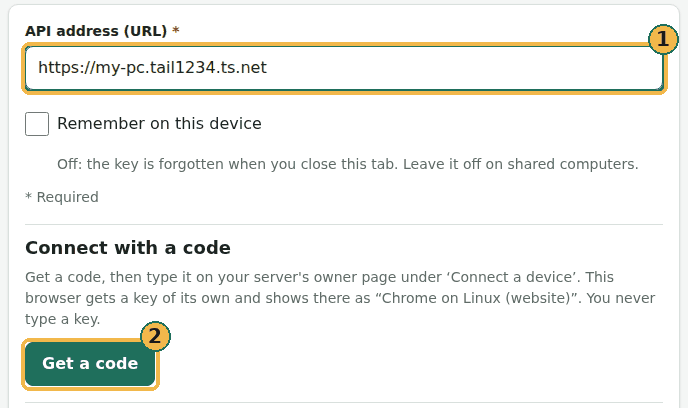
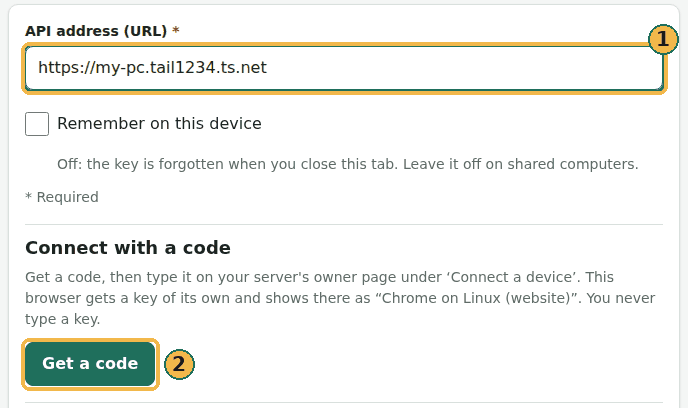
User guide pictures for Your data and Back up to Google Drive; one tool makes all the website pictures
Import a backup card, the preview with its merge choice and Import button, and the Google Drive card (Connect button), numbered,
7-19 KB each, alt text in en, hi, ta, te. tools/guide-shots/shots.cjs now makes all four website pictures (the first is unchanged
except that button badges sit beside the button); annotate.py numbers and shrinks them.

Claude-Session: https://claude.ai/code/session_01661aQxHCcyQpCCqFJLTZpH

Changed region(s): [[0.1831, 0.7647, 0.3052, 0.9412]]

diff --git a/tools/guide-shots/annotate.py b/tools/guide-shots/annotate.py
@@ -15,12 +15,14 @@
 #
 # SPDX-License-Identifier: AGPL-3.0-only
 
-"""Numbers the field (1) and the button (2) on tools/guide-shots/out/raw.png and shrinks it to a small palette PNG.
+"""Numbers the places shots.cjs recorded on each raw picture and shrinks it to a small palette PNG.
 
-    python3 tools/guide-shots/annotate.py [outDir] [target.png]
+    python3 tools/guide-shots/annotate.py [outDir] [imagesDir]
 
-Needs Pillow (a development machine's Python usually has it); the picture goes to guide/docs/images/web-connect-url.png.
+Needs Pillow; the pictures go to guide/docs/images/<name>.png. A number's badge sits on the top right corner of its
+box, clear of the label text; a box with room to its right (a button) gets it beside it.
 """
+import glob
 import json
 import os
 import sys
@@ -29,25 +31,24 @@ from PIL import Image, ImageDraw, ImageFont
 
 here = os.path.dirname(os.path.abspath(__file__))
 out = sys.argv[1] if len(sys.argv) > 1 else os.path.join(here, 'out')
-target = sys.argv[2] if len(sys.argv) > 2 else os.path.join(here, '..', '..', 'guide', 'docs', 'images', 'web-connect-url.png')
-ox, oy = 296, 196  # the clip's origin in the page, as in web-connect-url.cjs
-boxes = json.load(open(os.path.join(out, 'boxes.json')))
-im = Image.open(os.path.join(out, 'raw.png')).convert('RGB')
-draw = ImageDraw.Draw(im)
+images = sys.argv[2] if len(sys.argv) > 2 else os.path.join(here, '..', '..', 'guide', 'docs', 'images')
 gold, dark = (242, 184, 75), (31, 111, 92)
 font = ImageFont.truetype('/usr/share/fonts/truetype/dejavu/DejaVuSans-Bold.ttf', 20)
 
-
-def mark(box, number):
-    x0, y0 = box['x'] - ox - 4, box['y'] - oy - 4
-    x1, y1 = x0 + box['width'] + 8, y0 + box['height'] + 8
-    draw.rounded_rectangle([x0, y0, x1, y1], radius=8, outline=gold, width=4)
-    cx, cy = x1 - 4, y0 - 2  # the badge sits on the top right corner, clear of the label text
-    draw.ellipse([cx - 15, cy - 15, cx + 15, cy + 15], fill=gold, outline=dark, width=2)
-    draw.text((cx, cy), str(number), fill=(26, 26, 26), font=font, anchor='mm')
-
-
-mark(boxes['url'], 1)
-mark(boxes['btn'], 2)
-im.quantize(colors=64, method=Image.Quantize.MEDIANCUT).convert('P').save(target, optimize=True)
-print(f'{target}: {os.path.getsize(target)} bytes')
+for spec in sorted(glob.glob(os.path.join(out, '*.json'))):
+    name = os.path.basename(spec)[: -len('.json')]
+    data = json.load(open(spec))
+    ox, oy = data['clip']['x'], data['clip']['y']
+    im = Image.open(os.path.join(out, f'{name}.raw.png')).convert('RGB')
+    draw = ImageDraw.Draw(im)
+    for number, box in enumerate(data['marks'], start=1):
+        x0, y0 = box['x'] - ox - 4, box['y'] - oy - 4
+        x1, y1 = x0 + box['width'] + 8, y0 + box['height'] + 8
+        draw.rounded_rectangle([x0, y0, x1, y1], radius=8, outline=gold, width=4)
+        # The badge sits just right of a box that has room beside it (a button), else on its top right corner (a wide field).
+        cx, cy = (x1 + 20, (y0 + y1) / 2) if x1 + 40 < im.width else (x1 - 4, y0 - 2)
+        draw.ellipse([cx - 15, cy - 15, cx + 15, cy + 15], fill=gold, outline=dark, width=2)
+        draw.text((cx, cy), str(number), fill=(26, 26, 26), font=font, anchor='mm')
+    target = os.path.join(images, f'{name}.png')
+    im.quantize(colors=64, method=Image.Quantize.MEDIANCUT).convert('P').save(target, optimize=True)
+    print(f'{name}: {os.path.getsize(target)} bytes')

diff --git a/guide/i18n/ta/your-data.md b/guide/i18n/ta/your-data.md
@@ -62,6 +62,8 @@ Android அல்லது iPhone-இல், **அமைப்புகள்** 
 அல்லது யாராவது பகிர்ந்த புதுப்பிப்பிலிருந்து வீடுகள், வருகைகள், படங்களை மீண்டும் கொண்டுவரும். ஒவ்வொரு செயலியும் வேறு எந்தச்
 செயலி உருவாக்கிய காப்புப்பிரதியையும் படிக்கும்.
 
+![வலைத்தளத்தில் உங்கள் தரவு, Import a backup அட்டை: Choose a backup file பொத்தான் (1)](images/web-import-choose.png)
+
 1. இணையதளத்தில் **உங்கள் தரவு** திறந்து **காப்புப்பிரதியை இறக்குமதி செய்** கண்டுபிடிக்கவும். Android அல்லது iPhone-இல், **அமைப்புகள்** திறந்து, பிறகு **காப்புப்பிரதியை இறக்குமதி செய்**.
 2. **காப்புப்பிரதிக் கோப்பைத் தேர்ந்தெடு** என்பதைத் தேர்ந்தெடுக்கவும். (தொலைபேசியில் WhatsApp அல்லது Files போன்ற வேறொரு செயலியிலிருந்து கோப்பைத் திறந்து Doorprints-ஐயும் தேர்ந்தெடுக்கலாம்.) கணினியில் இணையதளத்தை நிறுவியிருந்தால் (Chrome அல்லது Edge), Doorprints காப்புப்பிரதியை (`.zip`) இருமுறை சொடுக்கியும் அதை **காப்புப்பிரதியை இறக்குமதி செய்** என்பதில் திறக்கலாம்.
 3. Doorprints கோப்பைச் சரிபார்த்து **இதனால் என்ன மாறும்** என்று காட்டும். இன்னும் எதுவும் மாறாது.
@@ -72,6 +74,8 @@ Android அல்லது iPhone-இல், **அமைப்புகள்** 
       நீக்கியிருந்தால், **… நீக்கப்பட்ட வீடுகளையும் திரும்பக் கொண்டு வா** அவற்றைத் திரும்பக் கொண்டுவரும்.
     - **அனைத்தையும் புதிய நகல்களாகச் சேர்:** இந்தத் தொலைபேசியில் எதுவும் மாறாது. உங்களிடம் ஏற்கெனவே உள்ள வீடுகள் இரண்டு முறை தெரியும்.
 5. **இறக்குமதி செய்** என்பதைத் தட்டவும்.
+
+![கோப்பைத் தேர்ந்த பிறகான முன்னோட்டம்: Merge with what I have, Add everything as new copies இடையே தேர்வு (1), எண்ணிக்கையுடன் What this would change, மற்றும் Import பொத்தான் (2). இங்கே உள்ள கோப்பு ஒரு மாதிரி காப்புப்பிரதி](images/web-import-preview.png)
 
 முன்னோட்டம் புதிய, புதுப்பிக்கப்பட்ட தரகர்களையும் எண்ணும். கோப்பில் ஒரு வீட்டின் தளம் -5 முதல் 200 வரம்பிற்கு வெளியே
 இருந்தால், முன்னோட்டம் அதைச் சொல்லும்: அந்த வீடு தளம் காலியாக விடப்பட்டு வரும்.

diff --git a/docs/10-sprint-log.md b/docs/10-sprint-log.md
@@ -3,7 +3,7 @@
 | Field | Value |
 |---|---|
 | Document | Agile sprint log (goals, stories, sign-offs, CI results, retrospectives) |
-| Version | 0.142 |
+| Version | 0.143 |
 | Date | 2026-10-06 |
 | Author | Claude (Cowork), Docs team |
 | Status | Draft (Sprint 3.5 KMP foundation delivered and green on `19006bc`; Sprint 4a in progress, section 11; web host **Firebase Hosting at `https://doorprints.web.app`** since 2026-09-23, owner setup done, first deploy pending, §11.6; Sprint 4b scope set by the product owner with the 2026-09-22 additions and the 2026-09-23 import definition, section 12; **whole-app UX audit approved on both clients**, the go-ahead for the first deploy, §11.7; owner's security guard rule, release security gate, process improvements and **first-release Definition of Done** (hi/ta/te ship *under review*) §12.5; licence change to AGPL-3.0-only approved, done 2026-09-29, §12.6; pre-deploy close-out, what is left, backlog tickets and rule candidates, §12.7; **owner issue P0 of 2026-09-24, India's boundaries on the map, merged (PRs #13 and #14) and live**, §12.8; **story S4b-BR-1, the app icon's footprints (option C), PR #15, merged (`76449fb`)**, §12.9; **owner request of 2026-09-24, the doubled lines and the Assam-Arunachal Pradesh state line, fixed on branch `fix/india-boundary-lines`, PR #16, merged (`4100f7a`)**, §12.10; **owner request of 2026-09-24, the Compose Multiplatform track (ADR-23), CMP-1 done in `be86f50`**, §13; **owner request of 2026-09-24, testing the APK and the live web UI, CMP-0 in `afe4064`**, §13.3; **the Sprint 4b/4c finishing batch (slice 5 to Wave E) built on stacked branches, not merged, 2026-10-01**, §13.29..§13.40) |
@@ -12,6 +12,7 @@
 
 | Version | Date | Author | Change |
 |---|---|---|---|
+| 0.143 | 2026-10-06 | Claude | **User guide, pictures** (continued, §17): *Your data* has the Import a backup card (1) and the preview with its merge choice and **Import** (1, 2); *Back up to Google Drive* has the card with **Connect to Google Drive** (1) (`guide/docs/images/web-import-choose.png`, `web-import-preview.png`, `web-drive-connect.png`, 7-19 KB, English; alt texts in all four languages, hi/ta/te under review). `tools/guide-shots/shots.cjs` makes all four website pictures from the built site (the Drive card with a client id that is not real, so its Connect button shows, no sign-in is tried); `annotate.py` numbers and shrinks them. **A defect found taking them:** the disconnected Drive card said what the Your data page says (`data.intro`); it now explains the Drive backup (`driveConnect.intro`, en/hi/ta/te) with a test. Not pictured: the connected Drive states (a recovery key, backups, devices), which need a real sign-in; in the owner's real-account test (docs/15) they can be shot with the same tool. |
 | 0.142 | 2026-10-06 | Claude | **User guide, pictures** (owner request of 2026-09-29, §17): *Set up your own server*, step 9, now shows the website's Connect page with an example address typed in and the **Get a code** button, numbered 1 and 2 (`guide/docs/images/web-connect-url.png`, 12 KB, English; the alt text and the caption are in all four languages, hi/ta/te under review). Made by `tools/guide-shots/` (`web-connect-url.cjs` takes the clip from the built site on a local port, `annotate.py` numbers and shrinks it; the result is byte-identical when remade), so more pictures can be added the same way. The server's own owner page is not pictured: it is served by the backend and needs a running server. |
 | 0.141 | 2026-10-06 | Claude | **S4b-BL-55 done**: version match of MapLibre's worker and shared file (build and live), and the map says when its worker failed to load; TC-S-42, TC-S-43 corrected and TC-U-134 added in docs/06 v0.125. |
 | 0.140 | 2026-10-06 | Claude | **S4b-BL-54 done**: CI checks that MapLibre's worker files ship — `web.yml` `pwa-files` job and `check-live-headers.sh`. Extract check logic to `web/scripts/maplibre-worker-check.mjs` with tests in `web/src/app/data/maplibre-worker-check.spec.ts`. |

diff --git a/CHANGELOG.md b/CHANGELOG.md
@@ -115,6 +115,7 @@ licence change from MIT to `AGPL-3.0-only` with a trademark notice is approved a
 
 ### Added
 
+- **Guide pictures for Your data and Back up to Google Drive**: the Import a backup card, the preview with its merge choice, and the Google Drive card, numbered, with alt text in all four guide languages (hi/ta/te under review). `tools/guide-shots/` makes every website picture from the built site, no network.
 - **A picture for the server setup page of the user guide**: step 9 shows the website's Connect page with an example address typed in and the **Get a code** button numbered, in all four guide languages (alt text and caption translated; hi/ta/te under review). `tools/guide-shots/` makes it again from the built site, no network.
 - **The map says when its worker failed to load** (S4b-BL-55): a worker load failure while online shows "reload, or clear this site's data" instead of the offline message (en, hi, ta, te; hi/ta/te under review); the build and the post-deploy check also require MapLibre's worker and shared file to be the same version (S4b-BL-54: and to ship at all).
 - **Guards against tests that cannot fail** (2026-10-06): `tools/check-specs.mjs` fails a spec that imports no production code or uses none of what it imports; `tools/mutate.mjs` applies a ticket's listed one-line mutations (`tools/mutations/`) and fails when one survives or no test of the expected name fails. Both run in `tools/check.sh`'s web area, no new library ([docs/14](docs/14-lead-backlog-and-handoff.md) §7).
@@ -958,6 +959,7 @@ The finishing batch of 2026-10-01 (built on stacked branches, not yet merged or 
 
 ### Fixed
 
+- **The Google Drive card said what the Your data page says**: when not connected it showed "Everything you save stays in this browser..." instead of what the Drive backup is. It now explains the Drive backup (en, hi, ta, te; hi/ta/te under review), with a test (found taking the guide pictures).
 - **Passkey without a PRF output: message and troubleshooting (2026-10-05).** When a passkey does not return a PRF output (Windows Hello after a PIN on some Windows/browser builds), the card now says the passkey could not protect deletions and offers remedies (single backups still delete; update Windows and the browser; a security key or a phone/Mac passkey usually works). The setup records which step returned nothing (step name and flags only, never a value) and the card offers the details to copy for troubleshooting.
 - **Set up a passkey stayed on the button after a Windows Hello PIN.** The PIN ceremony succeeded, then the page required `prf.enabled` and never used the PRF output. Create now evaluates the PRF in that same prompt. The passkey is kept only when that output can seal deletions. If it is missing, the card says the passkey could not protect deletions. An empty or all-zero output, the salt, or the public client salt is not kept. An output from a different passkey already stored in the browser is not success, and an assertion whose user-verification flag is clear is not kept.
 - **Set up a passkey did nothing on a Windows computer after a Windows Hello PIN was created.** The request asked only for ES256, which Windows Hello refuses before it shows a prompt. It now asks for ES256 and then RS256, and for a discoverable passkey. Cancelling says the prompt was cancelled. If setup fails, the card says the passkey could not be set up. The button stays, unless this browser has no platform authenticator.

diff --git a/guide/i18n/hi/your-data.md b/guide/i18n/hi/your-data.md
@@ -54,6 +54,8 @@ iPhone पर भी आयात कर सकती है।
 **बैकअप आयात करें** **पूरा बैकअप (ZIP)** से, सर्वर की बैकअप फ़ाइल (`.json`, तस्वीरों के बिना) से, या किसी के साझा किए
 अपडेट से मकान, दौरे और तस्वीरें वापस लाता है। हर ऐप किसी भी दूसरे ऐप का बना बैकअप पढ़ सकता है।
 
+![वेबसाइट पर आपका डेटा, Import a backup कार्ड: Choose a backup file बटन (1)](images/web-import-choose.png)
+
 1. वेबसाइट पर **आपका डेटा** खोलें और **बैकअप आयात करें** ढूँढें। Android या iPhone पर **सेटिंग्स** खोलें, फिर **बैकअप आयात करें**।
 2. **बैकअप फ़ाइल चुनें** चुनें। (फ़ोन पर आप फ़ाइल को WhatsApp या Files जैसे किसी दूसरे ऐप से खोलकर Doorprints भी चुन सकते हैं।) अगर आपने वेबसाइट को कंप्यूटर पर इंस्टॉल किया है (Chrome या Edge), तो Doorprints बैकअप (`.zip`) पर डबल-क्लिक करके भी उसे **बैकअप आयात करें** में खोल सकते हैं।
 3. Doorprints फ़ाइल जाँचता है और **इससे क्या बदलेगा** दिखाता है। अभी कुछ नहीं बदलता।
@@ -64,6 +66,8 @@ iPhone पर भी आयात कर सकती है।
       **… हटाए गए मकान भी वापस लाएँ** उन्हें वापस ले आता है।
     - **सब कुछ नई कॉपियों के रूप में जोड़ें:** इस फ़ोन पर कुछ नहीं बदलता। जो मकान आपके पास पहले से हैं, वे दो बार दिखेंगे।
 5. **आयात करें** पर टैप करें।
+
+![फ़ाइल चुनने के बाद का पूर्वावलोकन: Merge with what I have और Add everything as new copies में से चुनाव (1), गिनतियों के साथ What this would change, और Import बटन (2)। यहाँ फ़ाइल एक नमूना बैकअप है](images/web-import-preview.png)
 
 पूर्वावलोकन नए और बदले ब्रोकर भी गिनता है। अगर फ़ाइल में किसी मकान की मंज़िल -5 से 200 के बाहर है, तो पूर्वावलोकन
 यह बताता है: वह मकान अपनी मंज़िल खाली छोड़कर आता है।

diff --git a/guide/docs/your-data.md b/guide/docs/your-data.md
@@ -52,6 +52,8 @@ changed it after you deleted it. She can also import your update on the website 
 **Import a backup** brings houses, visits and photos back from a **Full backup (ZIP)**, the server's backup file
 (`.json`, without photos) or an update someone shared with you. Every app can read a backup made by any other.
 
+![Your data on the website, the Import a backup card: the Choose a backup file button (1)](images/web-import-choose.png)
+
 1. On the website, open **Your data** and find **Import a backup**. On Android or iPhone, open **Settings**, then
    **Import a backup**.
 2. Choose **Choose a backup file**. (On a phone you can also open the file from another app, such as WhatsApp or
@@ -65,6 +67,8 @@ changed it after you deleted it. She can also import your update on the website 
       has, turn on **Also bring back … houses deleted on this phone** (or *in this browser*) to get them back.
     - **Add everything as new copies:** nothing on this phone is changed. Houses you already have will appear twice.
 5. Tap **Import**.
+
+![The preview after choosing a file: the choice between Merge with what I have and Add everything as new copies (1), What this would change with its counts, and the Import button (2). The file here is the sample backup](images/web-import-preview.png)
 
 The preview also counts the new and updated brokers. If a house's floor in the file is outside -5 to 200, the
 preview says so: that house comes in with its floor left blank.

diff --git a/guide/i18n/ta/google-drive.md b/guide/i18n/ta/google-drive.md
@@ -8,6 +8,8 @@ Android மற்றும் iPhone Drive பணி நிறுத்தப்
 
 ## இணைக்கவும் (இணையதளம்) {#connect-website}
 
+![வலைத்தளத்தில் உங்கள் தரவு, Back up to Google Drive அட்டை: Connect to Google Drive பொத்தான் (1)](images/web-drive-connect.png)
+
 1. **உங்கள் தரவு** திறக்கவும்.
 2. **Google Drive இல் பேக்கப் செய்யவும்** கீழ் **Google Drive இல் இணைக்கவும்** தேர்ந்தெடுத்து Google இல் உள்நுழையவும்.
 3. Doorprints **மீட்டெடுக்கும் விசையை ஒருமுறை** காட்டும். நகலெடுத்து பாதுகாப்பான இடத்தில் வைக்கவும். **நான் என் மீட்டெடுக்க விசையைப் பாதுகாப்பான இடத்தில் சேமிந்துவிட்டேன்** என்பதைத் தேர்ந்தெடுத்து தொடரவும். எச்சரிக்கைக்குப் பிறகு தவிர்க்கலாம்; விசை இல்லாமல் புதிய உலாவி பின்னர் இணைய முடியாது.

diff --git a/guide/i18n/te/google-drive.md b/guide/i18n/te/google-drive.md
@@ -8,6 +8,8 @@ Android మరియు iPhone Drive పని నిలిపివేయబడ
 
 ## కనెక్ట్ చేయండి (వెబ్సైట్) {#connect-website}
 
+![వెబ్సైట్లో మీ డేటా, Back up to Google Drive కార్డ్: Connect to Google Drive బటన్ (1)](images/web-drive-connect.png)
+
 1. **మీ డేటా** తెరవండి.
 2. **Google Drive కు బ్యాకప్** కింద **Google Drive కు కనెక్ట్ చేయండి** ఎంచుకుని Google తో సైన్ ఇన్ చేయండి.
 3. Doorprints **రికవరీ కీని ఒకసారి** చూపిస్తుంది. కాపీ చేసి సురక్షితంగా ఉంచండి. **నేను నా రికవరీ కీని సురక్షితమైన చోట సేవ్ చేశాను** టిక్ చేసి కొనసాగండి. హెచ్చరిక తర్వాత దాటవేయవచ్చు; కీ లేకుండా కొత్త బ్రౌజర్ తర్వాత చేరలేదు.

diff --git a/docs/README.md b/docs/README.md
@@ -3,7 +3,7 @@
 | Field | Value |
 |---|---|
 | Document | SSDLC document index |
-| Version | 0.103 |
+| Version | 0.104 |
 | Date | 2026-10-06 |
 | Author | Claude (Cowork) |
 | Status | Draft |
@@ -12,6 +12,7 @@
 
 | Version | Date | Author | Change |
 |---|---|---|---|
+| 0.104 | 2026-10-06 | Claude | User guide pictures for Your data and Google Drive, and the Drive card text fix: docs/10 v0.143. |
 | 0.103 | 2026-10-06 | Claude | User guide picture for the server setup page (S4b-BL-60 follow-up): docs/10 v0.142. |
 | 0.102 | 2026-10-06 | Claude | **S4b-BL-55 done**: docs/10 v0.141, docs/06 v0.125. |
 | 0.101 | 2026-10-06 | Claude | Guards against tests that cannot fail (`tools/check-specs.mjs`, `tools/mutate.mjs`): docs/14 v0.86. |

diff --git a/guide/docs/google-drive.md b/guide/docs/google-drive.md
@@ -10,6 +10,8 @@ Android and iPhone Drive work is paused. This page describes the **website**.
 
 ## Connect (website)
 
+![Your data on the website, the Back up to Google Drive card: the Connect to Google Drive button (1)](images/web-drive-connect.png)
+
 1. Open **Your data**.
 2. Under **Back up to Google Drive**, choose **Connect to Google Drive** and sign in with Google.
 3. Doorprints shows a **recovery key once**. Copy it and keep it somewhere safe. Tick **I have saved my recovery key
